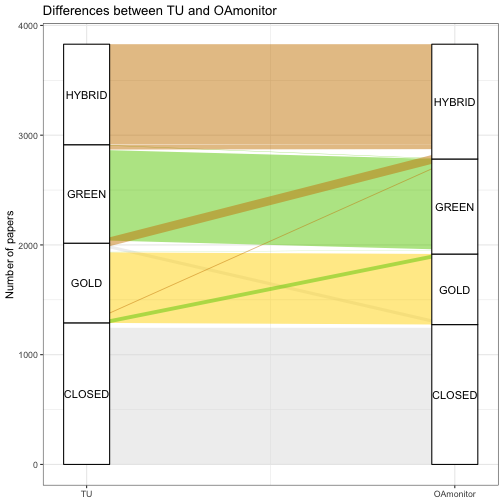
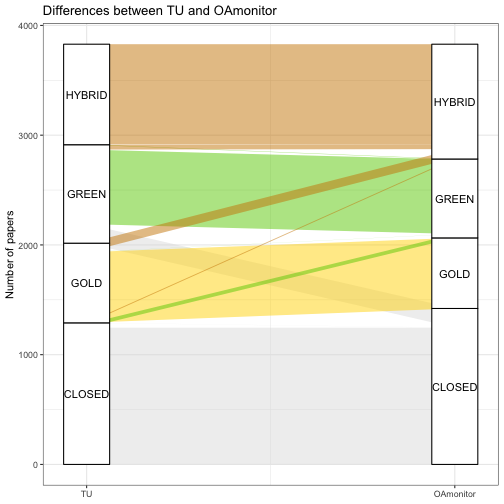
updates after review Kristina part 1

diff --git a/presentations/2020-06-03_OAmonitor-workshop.html b/presentations/2020-06-03_OAmonitor-workshop.html
@@ -67,11 +67,17 @@ For standardized and rapid reporting:
 
 1. Give your project a name, and place it inside an accessible folder on your computer.
 
+1. Click 'Create Project'
 
+![newproject](images/newproject.png)
+
+_NB: no need to create a git repository or open in a new session._
 ---
 # Start your project (step 2)
 
-1. Open an R script and save it inside your project folder: **File** &gt; **New File** &gt; **R Script**
+1. Open an R script: **File** &gt; **New File** &gt; **R Script**
+
+1. Save it inside your project folder as `monitoring_script.R`
 
    You can now type R code in this script, and execute the code as follows:
 
@@ -81,19 +87,23 @@ For standardized and rapid reporting:
 
   - When running multiple lines: select all lines, then press ‘Run’ or ctrl+enter
   
-1. Give it a try:
-
-```r
-mean(1:10)
-```
-
-```
-## [1] 5.5
-```
+1. Give it a try! Type and execute the following line of code:
+    
+    ```r
+    mean(1:10)
+    ```
+    
+    ```
+    ## [1] 5.5
+    ```
 
 
 ---
 # Install the package
+
+#### The following (probably) only needs to be done once...
+... but you don't want to lose the code. So we will put it in the script.
+
 
 1. Make sure `devtools` is installed:
 ```r
@@ -105,8 +115,18 @@ install.packages("devtools")
 devtools::install_github("https://github.com/bvreede/OAmonitor")
 ```
 
-#### NB: this (probably) only needs to be done once...
-... but you don't want to lose the code.
+1. enter '3' not to update any packages
+
+--
+
+#### When you are done, place a # in front of these lines of code:
+
+```r
+# install.packages("devtools")
+# devtools::install_github("https://github.com/bvreede/OAmonitor")
+```
+
+
 ---
 # Load required libraries
 
@@ -114,11 +134,25 @@ Load the package (and some other libraries we will use)
 
 ```r
 library(OAmonitor)
-library(readxl)
 library(tidyverse)
-library(ggalluvial)
 ```
 
+```
+## ── Attaching packages ──────────────────────────────────────────────────────────────── tidyverse 1.3.0 ──
+```
+
+```
+## ✓ ggplot2 3.3.0     ✓ purrr   0.3.4
+## ✓ tibble  3.0.1     ✓ dplyr   0.8.5
+## ✓ tidyr   1.1.0     ✓ stringr 1.4.0
+## ✓ readr   1.3.1     ✓ forcats 0.5.0
+```
+
+```
+## ── Conflicts ─────────────────────────────────────────────────────────────────── tidyverse_conflicts() ──
+## x dplyr::filter() masks stats::filter()
+## x dplyr::lag()    masks stats::lag()
+```
 
 
 ---
@@ -151,7 +185,7 @@ library(ggalluvial)
   - Put each individual data file in a new column
   - Fill out the name of each relevant column per data file.
 
-1. Ensure all source files are placed in the same folder (inside the project folder).
+1. Place all source files in a subfolder of the project folder (e.g. `data/`).
 
 1. Save the excel template inside the project folder.
 
@@ -161,74 +195,113 @@ For example:
 ---
 # Load all data
 
+- Your **configuration file** (filled out template) can be anywhere;
+- Your **data files** are in a folder inside your project folder.
 
+![folderstructure](images/folderstructure.png)
+
+--
+
+Using the configuration file, you will now load all data into a **combined data frame**.
 
 
 ```r
-df &lt;- open_everything(file="oamonitor/config_pub_files.xlsx", dir = "oamonitor")
+df &lt;- open_everything(file = "config_pub_files.xlsx",
+                      dir = "data")
+```
+NB: `dir` is the folder where your data files are stored.
 
+---
+# Did it work?
+
+
+```r
 glimpse(df)
 ```
 
 ```
 ## Rows: 8,747
 ## Columns: 27
-## $ org_unit                                                       &lt;chr&gt; "UMC Utrecht", "UMC Utrecht", "…
-## $ `Publication category-1`                                       &lt;chr&gt; "Academic", "Academic", "Academ…
-## $ `Type-2`                                                       &lt;chr&gt; "Contribution to journal - Arti…
-## $ `Peer-reviewed-3`                                              &lt;chr&gt; "Peer-reviewed", "Peer-reviewed…
-## $ system_id                                                      &lt;chr&gt; "33753105", "27546786", "331988…
-## $ `APA-5`                                                        &lt;chr&gt; "Cross-Disorder Group of the Ps…
-## $ `Title of the contribution in original language-6`             &lt;chr&gt; "Genomic Relationships, Novel L…
-## $ issn                                                           &lt;chr&gt; "0092-8674", "1619-7070", "1522…
-## $ `Journal &gt; Journal-8`                                          &lt;chr&gt; "Cell", "European Journal of Nu…
-## $ doi                                                            &lt;chr&gt; "10.1016/j.cell.2019.11.020", "…
-## $ `Electronic version(s) of this work-10`                        &lt;chr&gt; "10.1016/j.cell.2019.11.020Fina…
-## $ `Open Access status-11`                                        &lt;chr&gt; "Closed", "Closed", "Closed", "…
-## $ `Electronic version(s) of this work &gt; Document version-12`     &lt;chr&gt; "Final published version, Final…
-## $ `Electronic version(s) of this work &gt; File &gt; File name-13`     &lt;chr&gt; "luykx.pdf", "aalbersberg.pdf",…
-## $ `Transfer publication to repository-14`                        &lt;chr&gt; "Yes", "Yes", "No", "Yes", "Yes…
-## $ eissn                                                          &lt;lgl&gt; NA, NA, NA, NA, NA, NA, NA, NA,…
-## $ source                                                         &lt;chr&gt; "UMC-Monitoring_OA-2019-9_03_20…
-## $ `Title of the contribution in original language-2`             &lt;chr&gt; NA, NA, NA, NA, NA, NA, NA, NA,…
-## $ `Contributors-3`                                               &lt;chr&gt; NA, NA, NA, NA, NA, NA, NA, NA,…
-## $ `Journal &gt; Journal-4`                                          &lt;chr&gt; NA, NA, NA, NA, NA, NA, NA, NA,…
-## $ `Open Access status-7`                                         &lt;chr&gt; NA, NA, NA, NA, NA, NA, NA, NA,…
-## $ `Electronic version(s) of this work &gt; Document version-8`      &lt;chr&gt; NA, NA, NA, NA, NA, NA, NA, NA,…
-## $ `Electronic version(s) of this work &gt; Public access to file-9` &lt;chr&gt; NA, NA, NA, NA, NA, NA, NA, NA,…
-## $ `Open Access embargo date-10`                                  &lt;chr&gt; NA, NA, NA, NA, NA, NA, NA, NA,…
-## $ `Journal &gt; Journal &gt; RoMEO colour-11`                          &lt;chr&gt; NA, NA, NA, NA, NA, NA, NA, NA,…
-## $ `Electronic version(s) of this work-12`                        &lt;chr&gt; NA, NA, NA, NA, NA, NA, NA, NA,…
-## $ `Keywords in 'Library Keywords'-14`                            &lt;chr&gt; NA, NA, NA, NA, NA, NA, NA, NA,…
+## $ org_unit                                                       &lt;chr&gt; "UMC U…
+## $ `Publication category-1`                                       &lt;chr&gt; "Acade…
+## $ `Type-2`                                                       &lt;chr&gt; "Contr…
+## $ `Peer-reviewed-3`                                              &lt;chr&gt; "Peer-…
+## $ system_id                                                      &lt;chr&gt; "33753…
+## $ `APA-5`                                                        &lt;chr&gt; "Cross…
+## $ `Title of the contribution in original language-6`             &lt;chr&gt; "Genom…
+## $ issn                                                           &lt;chr&gt; "0092-…
+## $ `Journal &gt; Journal-8`                                          &lt;chr&gt; "Cell"…
+## $ doi                                                            &lt;chr&gt; "10.10…
+## $ `Electronic version(s) of this work-10`                        &lt;chr&gt; "10.10…
+## $ `Open Access status-11`                                        &lt;chr&gt; "Close…
+## $ `Electronic version(s) of this work &gt; Document version-12`     &lt;chr&gt; "Final…
+## $ `Electronic version(s) of this work &gt; File &gt; File name-13`     &lt;chr&gt; "luykx…
+## $ `Transfer publication to repository-14`                        &lt;chr&gt; "Yes",…
+## $ eissn                                                          &lt;lgl&gt; NA, NA…
+## $ source                                                         &lt;chr&gt; "UMC-M…
+## $ `Title of the contribution in original language-2`             &lt;chr&gt; NA, NA…
+## $ `Contributors-3`                                               &lt;chr&gt; NA, NA…
+## $ `Journal &gt; Journal-4`                                          &lt;chr&gt; NA, NA…
+## $ `Open Access status-7`                                         &lt;chr&gt; NA, NA…
+## $ `Electronic version(s) of this work &gt; Document version-8`      &lt;chr&gt; NA, NA…
+## $ `Electronic version(s) of this work &gt; Public access to file-9` &lt;chr&gt; NA, NA…
+## $ `Open Access embargo date-10`                                  &lt;chr&gt; NA, NA…
+## $ `Journal &gt; Journal &gt; RoMEO colour-11`                          &lt;chr&gt; NA, NA…
+## $ `Electronic version(s) of this work-12`                        &lt;chr&gt; NA, NA…
+## $ `Keywords in 'Library Keywords'-14`                            &lt;chr&gt; NA, NA…
 ```
+
 
 ---
 # Using external data
 
-- VSNU (from an excel, will be provided)
+Data needed:
+- VSNU (from an excel; provided)
 - DOAJ (via API)
 - Unpaywall (via API)
 
 Running APIs takes a while (several hours), so the function contains the option to save, and then reload the data.
+
+1. Prepare the following lines of code, but not run them yet;
+
+1. Make sure that `save_results = T`, and fill out your own email address.
+
+1. Then select **both** lines and run them. Keep your computer open while this runs.
+
 ```r
 get_doaj(df, source = "api", save_results = T)
 
-get_upw(df, source = "api", email = YOUREMAIL@UNI.NL, save_results = T)
+get_upw(df, source = "api", email = "YOUREMAIL@UNI.NL", save_results = T)
 ```
+---
+# Before part 2
+
+- Please let us know if you have not yet received the VSNU data; we will send it to you.
+
+- We recommend placing the VSNU excel file in the `data/` folder of your project.
+
+- The DOAJ and UPW downloads will be placed in `data/clean/` (so it is useful if you already created the folder `data/`; if that does not exist, the program will create it for you).
+
+- Confirm that the code has run: you will see a confirmation in your console, and you will see files show up in `data/clean/`.
+
+- **If this does not happen**: please re-run the code (it will take a few hours), or get in touch with us.
+
+--
+
+## See you tomorrow!
 
 ---
 class: inverse, middle, center
 # Part 2
-
 
 ---
 # Load the existing data
 
 
 ```r
-doajdf &lt;- get_doaj(df, source="oamonitor/doaj_from_issn_2020-03-09.csv")
-upwdf &lt;- get_upw(df, source="oamonitor/upw_from_doi_2020-03-09.csv")
-vsnudf &lt;- get_vsnu("oamonitor/VSNU-cummulatief_WOA20200302.xlsx")
+doajdf &lt;- get_doaj(df, source="data/doaj_from_issn_2020-03-09.csv")
+upwdf &lt;- get_upw(df, source="data/upw_from_doi_2020-03-09.csv")
+vsnudf &lt;- get_vsnu("data/VSNU-cummulatief_WOA20200302.xlsx")
 ```
 
 ---
@@ -278,14 +351,12 @@ Uses information in a hierarchical way to arrive at a classification.
 report_to_image(df_class)
 ```
 
-![](2020-06-03_OAmonitor-workshop_files/figure-html/unnamed-chunk-6-1.png)&lt;!-- --&gt;
-
 ---
 # Custom report
 
 ![custom_report](images/custom_report.png)
 ```r
-individual_reports(df_class, "oamonitor/custom_reports.xlsx")
+individual_reports(df_class, "data/custom_reports.xlsx")
 ```
 
 ---
@@ -317,7 +388,7 @@ Seems easy but...
 
 
 ```r
-df &lt;- read_excel("oamonitor/Report OA TU Delft 2019 -  20200420_FVC.xlsx")
+df &lt;- readxl::read_excel("data/Report OA TU Delft 2019 -  20200420_FVC.xlsx")
 ```
 
 Plus some `dplyr` magic, and renaming columns manually...
@@ -334,18 +405,18 @@ df %&gt;%
 
 ```
 ## # A tibble: 10 x 5
-##    system_id                            org_unit   doi                            issn      source  
-##    &lt;chr&gt;                                &lt;chr&gt;      &lt;chr&gt;                          &lt;chr&gt;     &lt;chr&gt;   
-##  1 002ee569-9840-4082-847f-ece741e1645e 08 - TPM   10.1016/j.cities.2019.01.026   0264-2751 TU Delft
-##  2 00399847-0190-4b81-aaaa-9ab2264c1f23 02 - AS    10.1063/1.5111086              0003-6951 TU Delft
-##  3 00399847-0190-4b81-aaaa-9ab2264c1f23 05 - EEMCS 10.1063/1.5111086              0003-6951 TU Delft
-##  4 00399847-0190-4b81-aaaa-9ab2264c1f23 07 - 3ME   10.1063/1.5111086              0003-6951 TU Delft
-##  5 0052d205-1517-4ff3-9ae1-5b418af942b3 02 - AS    10.1016/j.buildenv.2019.05.002 0360-1323 TU Delft
-##  6 0052d205-1517-4ff3-9ae1-5b418af942b3 03 - ARCH  10.1016/j.buildenv.2019.05.002 0360-1323 TU Delft
-##  7 0056072a-24ac-4c3e-b1bd-9feeb3a365b7 07 - 3ME   10.1016/j.cej.2019.02.163      1385-8947 TU Delft
-##  8 0069cf8e-3c9f-45ad-a6f6-ec31047639c1 04 - CEG   10.1016/j.margeo.2019.02.003   0025-3227 TU Delft
-##  9 006b49c7-5d5c-4431-9909-45f507b7a3e2 07 - 3ME   10.1007/s11657-019-0650-x      1862-3514 TU Delft
-## 10 00741788-7a56-4de7-aa87-633e4f70c59a 03 - ARCH  10.1016/j.apacoust.2019.05.007 0003-682X TU Delft
+##    system_id                   org_unit   doi                    issn    source 
+##    &lt;chr&gt;                       &lt;chr&gt;      &lt;chr&gt;                  &lt;chr&gt;   &lt;chr&gt;  
+##  1 002ee569-9840-4082-847f-ec… 08 - TPM   10.1016/j.cities.2019… 0264-2… TU Del…
+##  2 00399847-0190-4b81-aaaa-9a… 02 - AS    10.1063/1.5111086      0003-6… TU Del…
+##  3 00399847-0190-4b81-aaaa-9a… 05 - EEMCS 10.1063/1.5111086      0003-6… TU Del…
+##  4 00399847-0190-4b81-aaaa-9a… 07 - 3ME   10.1063/1.5111086      0003-6… TU Del…
+##  5 0052d205-1517-4ff3-9ae1-5b… 02 - AS    10.1016/j.buildenv.20… 0360-1… TU Del…
+##  6 0052d205-1517-4ff3-9ae1-5b… 03 - ARCH  10.1016/j.buildenv.20… 0360-1… TU Del…
+##  7 0056072a-24ac-4c3e-b1bd-9f… 07 - 3ME   10.1016/j.cej.2019.02… 1385-8… TU Del…
+##  8 0069cf8e-3c9f-45ad-a6f6-ec… 04 - CEG   10.1016/j.margeo.2019… 0025-3… TU Del…
+##  9 006b49c7-5d5c-4431-9909-45… 07 - 3ME   10.1007/s11657-019-06… 1862-3… TU Del…
+## 10 00741788-7a56-4de7-aa87-63… 03 - ARCH  10.1016/j.apacoust.20… 0003-6… TU Del…
 ```
 
 ---
@@ -361,8 +432,8 @@ This takes several hours, but when the results are saved, they can be re-loaded:
 
 
 ```r
-doajdf &lt;- get_doaj(df, source="oamonitor/doaj_from_issn_2020-05-06.csv")
-upwdf &lt;- get_upw(df, source="oamonitor/upw_from_doi_2020-05-06.csv")
+doajdf &lt;- get_doaj(df, source="data/doaj_from_issn_2020-05-06.csv")
+upwdf &lt;- get_upw(df, source="data/upw_from_doi_2020-05-06.csv")
 ```
 
 Now we can classify the data, applying the unpaywall and doaj data we just obtained
@@ -379,7 +450,7 @@ df_class &lt;- classify_oa(df,
 ---
 # Differences with TU monitor
 
-![](2020-06-03_OAmonitor-workshop_files/figure-html/unnamed-chunk-12-1.png)&lt;!-- --&gt;
+![](2020-06-03_OAmonitor-workshop_files/figure-html/unnamed-chunk-14-1.png)&lt;!-- --&gt;
 ---
 # Reason for these differences
 
@@ -413,12 +484,12 @@ df_class_custom &lt;- classify_oa(df,
                         upwdf=upwdf,
                         max_year=2019,
                         custom=T,
-                        custom_path="oamonitor/custom_labels.xlsx")
+                        custom_path="data/custom_labels.xlsx")
 ```
 
 ```
-## Warning in custom_label(system_id, custom_list): Duplicate IDs exist in the Custom ID data. No specific
-## labels can therefore be assigned.
+## Warning in custom_label(system_id, custom_list): Duplicate IDs exist in the
+## Custom ID data. No specific labels can therefore be assigned.
 ```
 
 ```r
@@ -446,7 +517,7 @@ df_class_custom %&gt;%
 ---
 # Differences with custom data
 
-![](2020-06-03_OAmonitor-workshop_files/figure-html/unnamed-chunk-14-1.png)&lt;!-- --&gt;
+![](2020-06-03_OAmonitor-workshop_files/figure-html/unnamed-chunk-16-1.png)&lt;!-- --&gt;
 
 
 ---

diff --git a/presentations/custom.css b/presentations/custom.css
@@ -49,6 +49,8 @@ img[alt=custom_report] {height: 270px;}
 img[alt=faculty_science] {height: 350px;}
 img[alt=delft_data] {height: 350px;}
 img[alt=custom_labels] {height: 250px;}
+img[alt=newproject] {height: 300px; margin: 0 175px;}
+img[alt=folderstructure] {height: 250px; margin: 0 200px;}
 img[alt=run] {height: 40px; margin: -12px 5px;}
 
 
